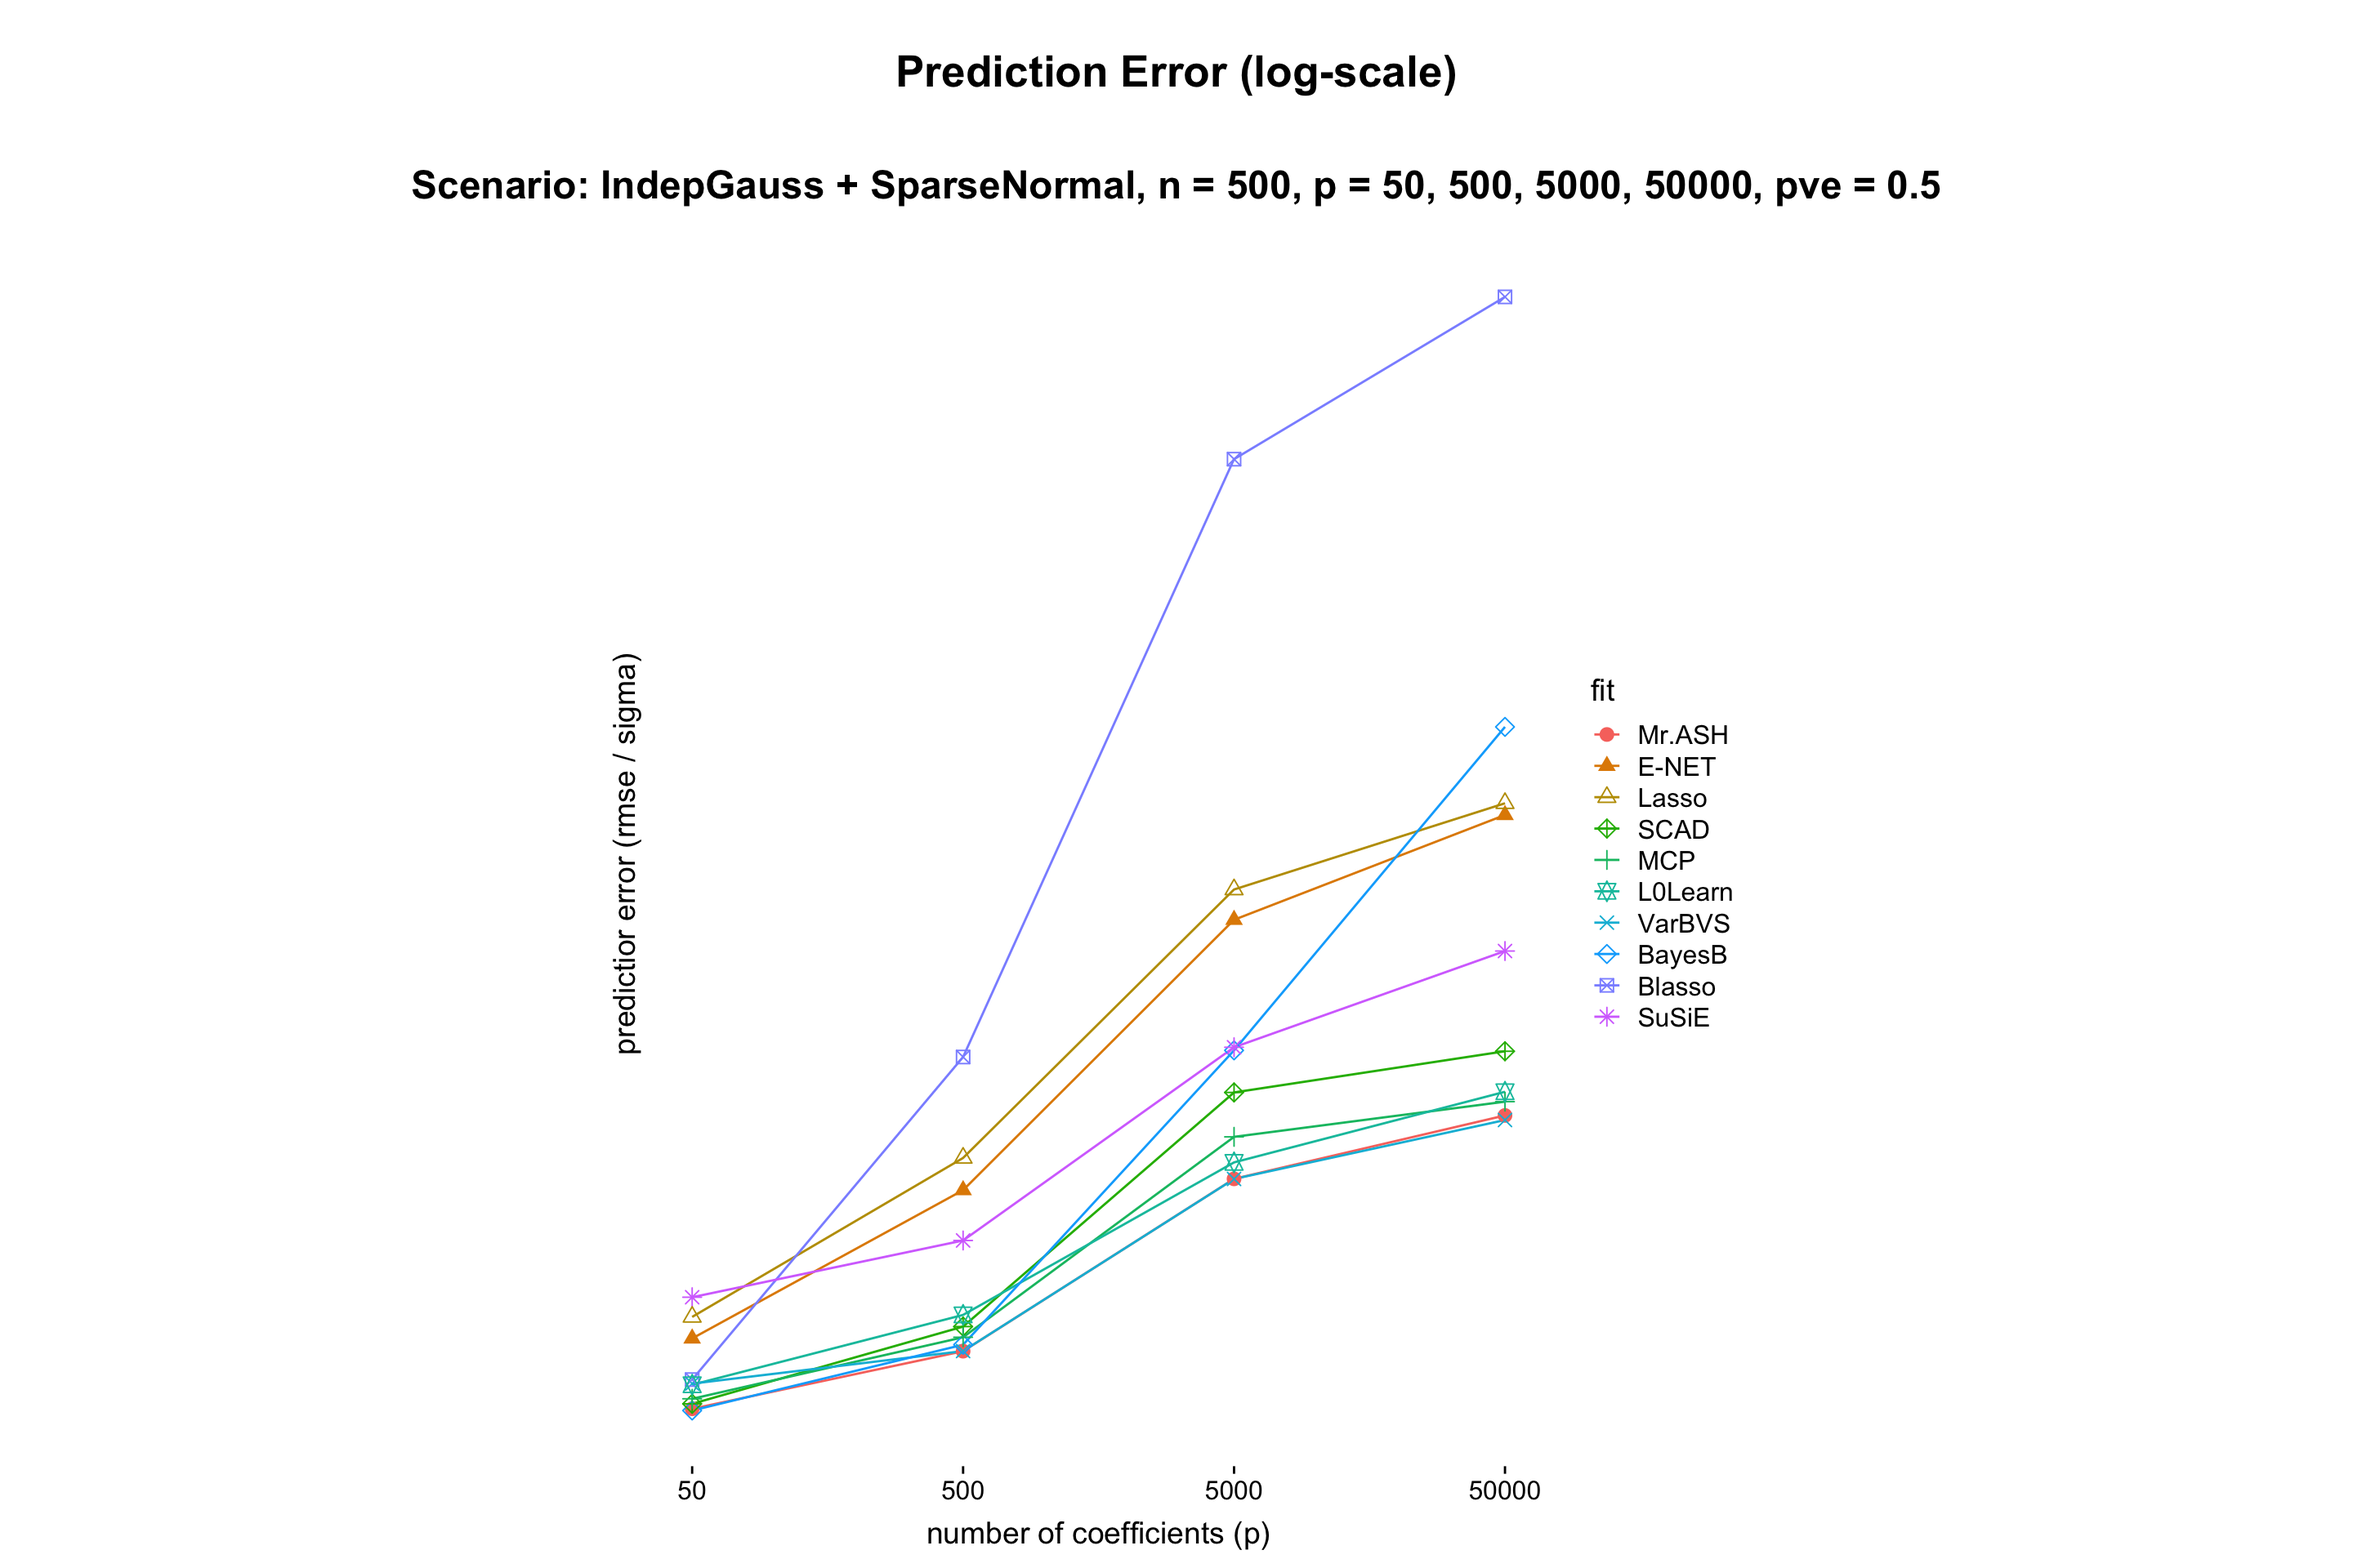
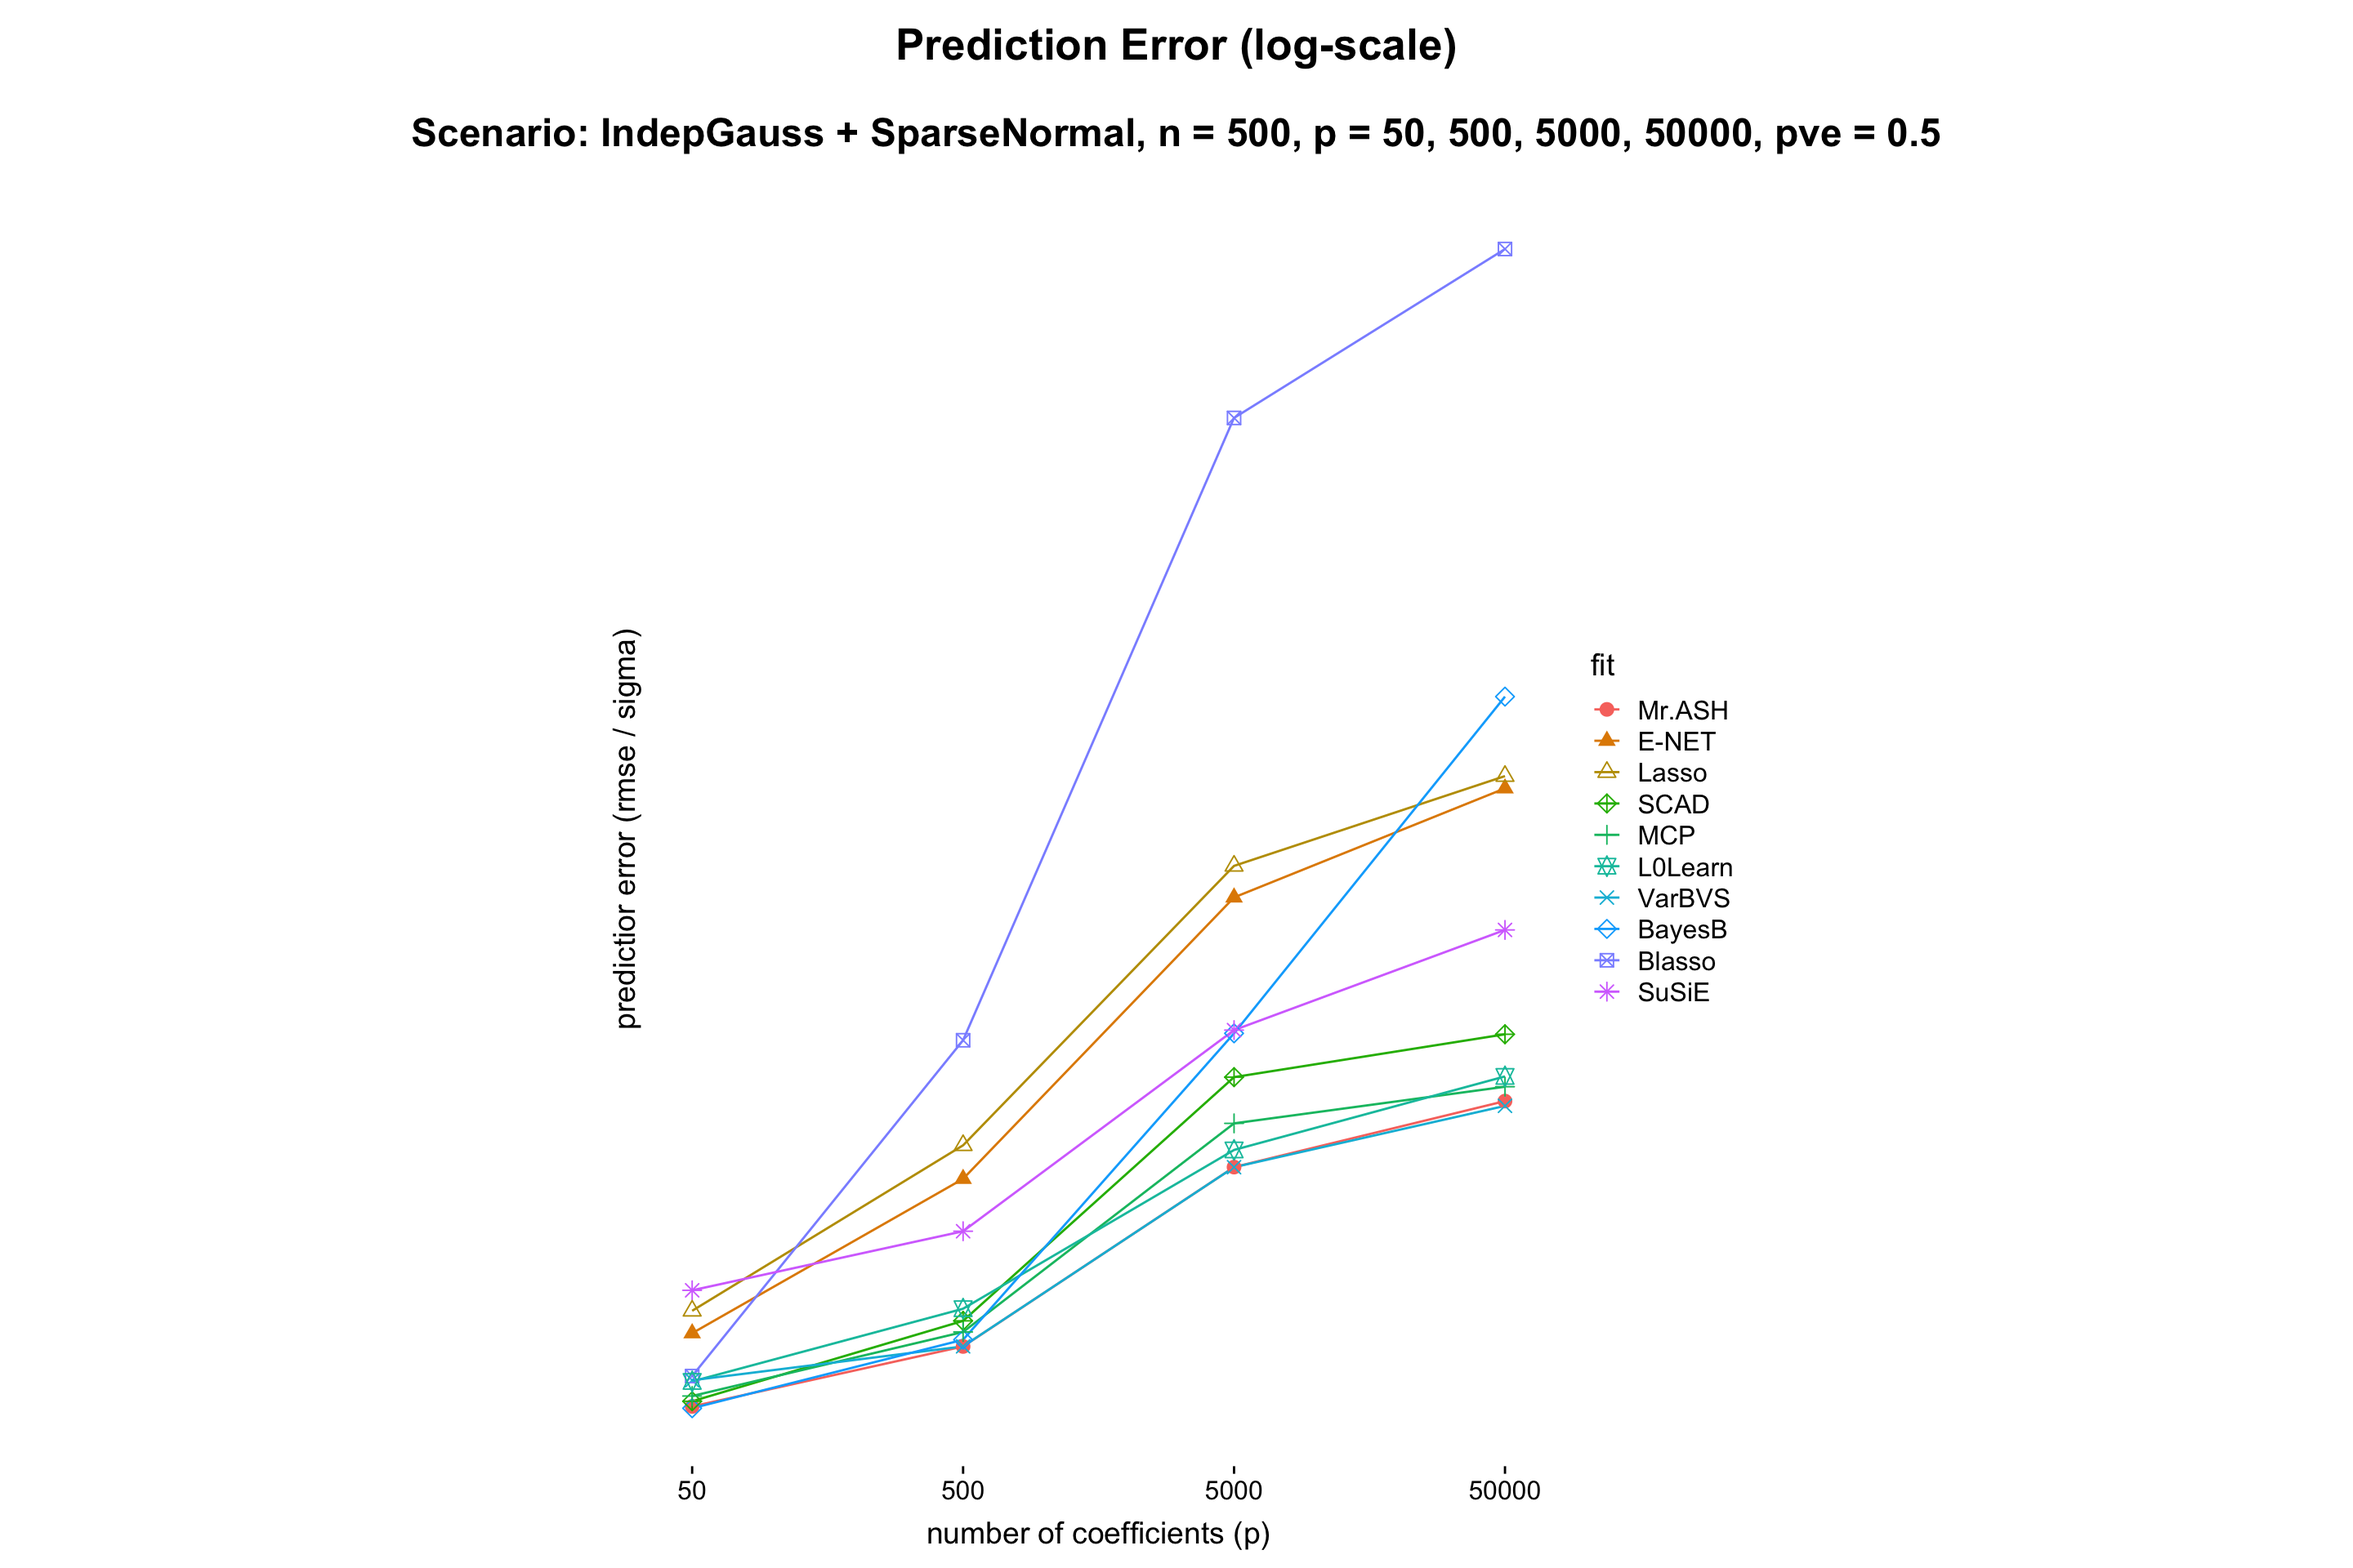
Build site.

diff --git a/docs/Result4_Highdim.html b/docs/Result4_Highdim.html
@@ -531,10 +531,10 @@ This reproducible <a href="http://rmarkdown.rstudio.com">R Markdown</a> analysis
 <div class="panel panel-default">
 <div class="panel-heading">
 <p class="panel-title">
-<a data-toggle="collapse" data-parent="#workflowr-checks" href="#strongRepositoryversionstrongahrefhttpsgithubcomstephenslabmrashworkflowtreea6146c32de9437e6c5dbd99f2b5407522c71d737targetblanka6146c3a"> <span class="glyphicon glyphicon-ok text-success" aria-hidden="true"></span> <strong>Repository version:</strong> <a href="https://github.com/stephenslab/mr-ash-workflow/tree/a6146c32de9437e6c5dbd99f2b5407522c71d737" target="_blank">a6146c3</a> </a>
+<a data-toggle="collapse" data-parent="#workflowr-checks" href="#strongRepositoryversionstrongahrefhttpsgithubcomstephenslabmrashworkflowtreea51b34e9bac0567c516557ed20fbfe69c88d58a4targetblanka51b34ea"> <span class="glyphicon glyphicon-ok text-success" aria-hidden="true"></span> <strong>Repository version:</strong> <a href="https://github.com/stephenslab/mr-ash-workflow/tree/a51b34e9bac0567c516557ed20fbfe69c88d58a4" target="_blank">a51b34e</a> </a>
 </p>
 </div>
[2 lines of base64/hex data omitted]
 <div class="panel-body">
 <p>
 Great! You are using Git for version control. Tracking code development and connecting the code version to the results is critical for reproducibility. The version displayed above was the version of the Git repository at the time these results were generated. <br><br> Note that you need to be careful to ensure that all relevant files for the analysis have been committed to Git prior to generating the results (you can use <code>wflow_publish</code> or <code>wflow_git_commit</code>). workflowr only checks the R Markdown file, but you know if there are other scripts or data files that it depends on. Below is the status of the Git repository when the results were generated:
@@ -599,6 +599,40 @@ Message
 </tr>
 </thead>
 <tbody>
+<tr>
+<td>
+Rmd
+</td>
+<td>
+<a href="https://github.com/stephenslab/mr-ash-workflow/blob/a51b34e9bac0567c516557ed20fbfe69c88d58a4/analysis/Result4_Highdim.Rmd" target="_blank">a51b34e</a>
+</td>
+<td>
+Youngseok Kim
+</td>
+<td>
+2019-10-22
+</td>
+<td>
+wflow_publish(“analysis/Result4_Highdim.Rmd”)
+</td>
+</tr>
+<tr>
+<td>
+html
+</td>
+<td>
+<a href="https://rawcdn.githack.com/stephenslab/mr-ash-workflow/1dfb17e2401b079b76205411f5ddaa5db790ccf7/docs/Result4_Highdim.html" target="_blank">1dfb17e</a>
+</td>
+<td>
+Youngseok Kim
+</td>
+<td>
+2019-10-22
+</td>
+<td>
+Build site.
+</td>
+</tr>
 <tr>
 <td>
 Rmd
@@ -873,7 +907,7 @@ title     = ggdraw() + draw_label(&quot;Prediction Error (log-scale)&quot;, font
 subtitle  = ggdraw() + draw_label(&quot;Scenario: IndepGauss + SparseNormal, n = 500, p = 50, 500, 5000, 50000, pve = 0.5&quot;, fontface  = &#39;bold&#39;, size = 18) 
 p0        = ggplot() + geom_blank() + theme_cowplot() + theme(axis.line = element_blank())
 fig_main  = plot_grid(p0,p1,p0, nrow = 1, rel_widths = c(0.3,0.6,0.3))
-fig       = plot_grid(title,subtitle,fig_main, ncol = 1, rel_heights = c(0.1,0.06,0.95))
+fig       = plot_grid(title,subtitle,fig_main, ncol = 1, rel_heights = c(0.06,0.06,0.95))
 fig</code></pre>
 <p><img src="figure/Result4_Highdim.Rmd/fig1-1.png" width="1440" style="display: block; margin: auto;" /></p>
 <p>
@@ -898,6 +932,17 @@ Date
 </tr>
 </thead>
 <tbody>
+<tr>
+<td>
+<a href="https://github.com/stephenslab/mr-ash-workflow/blob/1dfb17e2401b079b76205411f5ddaa5db790ccf7/docs/figure/Result4_Highdim.Rmd/fig1-1.png" target="_blank">1dfb17e</a>
+</td>
+<td>
+Youngseok Kim
+</td>
+<td>
+2019-10-22
+</td>
+</tr>
 <tr>
 <td>
 <a href="https://github.com/stephenslab/mr-ash-workflow/blob/5602aa261422a2f671acdcc1c775c3819bd08884/docs/figure/Result4_Highdim.Rmd/fig1-1.png" target="_blank">5602aa2</a>
@@ -954,7 +999,7 @@ p1 = ggplot(sdat) + geom_line(aes(x = p, y = time, color = fit)) +
   geom_point(aes(x = p, y = time, color = fit, shape = fit), size = 2.5) +
   theme_cowplot(font_size = 14) +
   scale_x_continuous(trans = &quot;log10&quot;, breaks = p_list) +
-  labs(y = &quot;predictior error (rmse / sigma)&quot;, x = &quot;number of coefficients (p)&quot;) +
+  labs(y = &quot;computation time (sec)&quot;, x = &quot;number of coefficients (p)&quot;) +
   theme(axis.line = element_blank(),
         plot.title = element_text(hjust = 0.5)) +
   scale_color_manual(values = col) +
@@ -965,7 +1010,7 @@ title     = ggdraw() + draw_label(&quot;Computation time (log-scale)&quot;, font
 subtitle  = ggdraw() + draw_label(&quot;Scenario: IndepGauss + SparseNormal, n = 500, p = 50, 500, 5000, 50000, pve = 0.5&quot;, fontface  = &#39;bold&#39;, size = 18) 
 p0        = ggplot() + geom_blank() + theme_cowplot() + theme(axis.line = element_blank())
 fig_main  = plot_grid(p0,p1,p0, nrow = 1, rel_widths = c(0.3,0.6,0.3))
-fig       = plot_grid(title,subtitle,fig_main, ncol = 1, rel_heights = c(0.1,0.06,0.95))
+fig       = plot_grid(title,subtitle,fig_main, ncol = 1, rel_heights = c(0.06,0.06,0.95))
 fig</code></pre>
 <p><img src="figure/Result4_Highdim.Rmd/fig2-1.png" width="1440" style="display: block; margin: auto;" /></p>
 <p>
@@ -990,6 +1035,17 @@ Date
 </tr>
 </thead>
 <tbody>
+<tr>
+<td>
+<a href="https://github.com/stephenslab/mr-ash-workflow/blob/1dfb17e2401b079b76205411f5ddaa5db790ccf7/docs/figure/Result4_Highdim.Rmd/fig2-1.png" target="_blank">1dfb17e</a>
+</td>
+<td>
+Youngseok Kim
+</td>
+<td>
+2019-10-22
+</td>
+</tr>
 <tr>
 <td>
 <a href="https://github.com/stephenslab/mr-ash-workflow/blob/5602aa261422a2f671acdcc1c775c3819bd08884/docs/figure/Result4_Highdim.Rmd/fig2-1.png" target="_blank">5602aa2</a>
